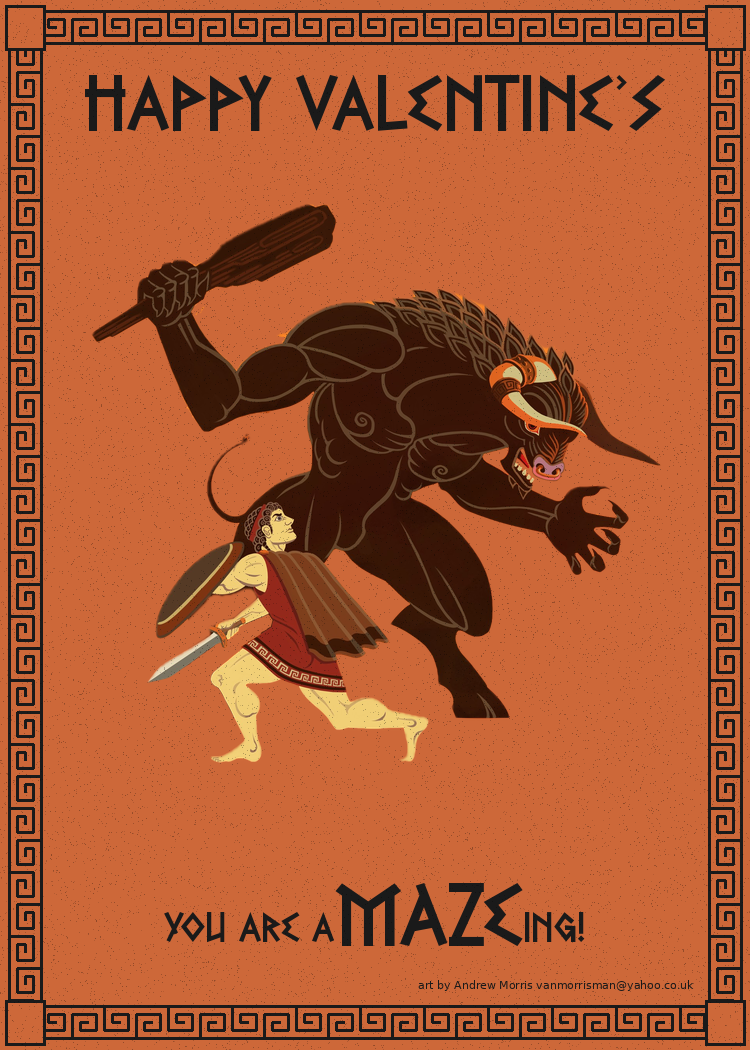
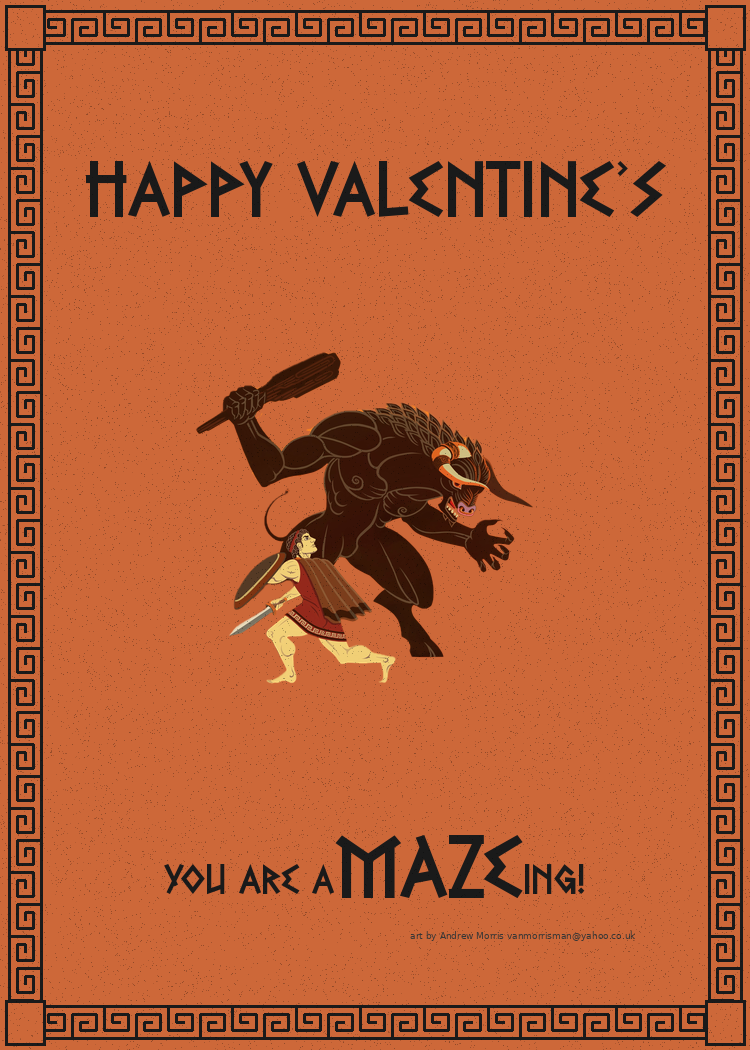
Tighten layout for high-impact heroic art
- Inner margins: 54px top/bottom, 48px left/right (was 66/60)
- Header padding: 78px (was 90), font reduced to 72pt (was 80)
- Header-to-illustration gap: 72px (was 84)
- Illustration-to-pun gap: 72px (was 90)
- Pun bottom padding: 84px (was 90)
- Credit: 10px font at 80% opacity, 48px offset

Changed region(s): [[0.092, 0.061, 0.8893, 0.7314], [0.2147, 0.7924, 0.92, 0.9448]]

diff --git a/src/greek_design_system.py b/src/greek_design_system.py
@@ -343,29 +343,31 @@ def generate_greek_card_front(
 ) -> Image:
     """Generate card front with Greek pottery styling.
 
-    Layout spec (from design critique):
-    - Border: 10px stroke, inner margins 66px top/bottom, 60px left/right
-    - Header: 90px top padding, 84px gap to illustration
-    - Illustration: centered at x=375, 96px below header, 90px above pun
-    - Pun line: 90px gaps above and below
-    - Credit: 6.5pt at 82% opacity, 54px from bottom-right inner border
+    Layout spec (tightened for high-impact):
+    - Inner margins: 54px top/bottom, 48-54px left/right
+    - Header top padding: 78px from inner border
+    - Header to illustration gap: 72px
+    - Illustration: ~640px height target (58-65% of card), centered
+    - Illustration to pun gap: 72px
+    - Pun baseline to bottom inner border: 84px
+    - Credit: 6-7pt at 80-85% opacity, 48-54px from inner border
     """
     img = Image.new('RGB', (width, height), PALETTE.terracotta)
     draw = ImageDraw.Draw(img)
 
-    # Layout constants from spec
-    INNER_MARGIN_TOP = 66
-    INNER_MARGIN_BOTTOM = 66
-    INNER_MARGIN_LEFT = 60
-    INNER_MARGIN_RIGHT = 60
-    HEADER_TOP_PADDING = 90
-    HEADER_TO_ILLUSTRATION_GAP = 84
-    ILLUSTRATION_TO_PUN_GAP = 90
-    PUN_BOTTOM_PADDING = 90
+    # Layout constants - tightened for dramatic impact
+    INNER_MARGIN_TOP = 54
+    INNER_MARGIN_BOTTOM = 54
+    INNER_MARGIN_LEFT = 48
+    INNER_MARGIN_RIGHT = 48
+    HEADER_TOP_PADDING = 78
+    HEADER_TO_ILLUSTRATION_GAP = 72
+    ILLUSTRATION_TO_PUN_GAP = 72
+    PUN_BOTTOM_PADDING = 84
     CENTER_X = width // 2  # 375
-    OPTICAL_NUDGE_X = -12
-    CREDIT_OFFSET_RIGHT = 54
-    CREDIT_OFFSET_BOTTOM = 54
+    OPTICAL_NUDGE_X = -12  # Nudge left if art mass leans right
+    CREDIT_OFFSET_RIGHT = 48
+    CREDIT_OFFSET_BOTTOM = 48
 
     draw_card_borders(draw, width, height, border_width)
 
@@ -373,9 +375,9 @@ def generate_greek_card_front(
     base_dir = os.path.dirname(os.path.abspath(__file__))
     greek_font_path = os.path.join(base_dir, "..", "assets", "fonts", "Greek-Freak.ttf")
 
-    # Calculate header position
+    # Calculate header position (reduced 10% from 80pt for balance with larger art)
     try:
-        header_font = ImageFont.truetype(greek_font_path, 80)
+        header_font = ImageFont.truetype(greek_font_path, 72)
     except:
         header_font = ImageFont.load_default()
 
@@ -451,9 +453,9 @@ def generate_greek_card_front(
     draw.text((pun_start_x + w1, pun_y), part2, fill=PALETTE.black, font=big_font)
     draw.text((pun_start_x + w1 + w2, pun_y + baseline_offset), part3, fill=PALETTE.black, font=small_font)
 
-    # Artist credit (6.5pt ≈ 8-9px at 300dpi, with 82% opacity)
+    # Artist credit (6-7pt ≈ 8-10px at 300dpi, with 80-85% opacity)
     try:
-        credit_font = ImageFont.truetype("/usr/share/fonts/truetype/dejavu/DejaVuSans.ttf", 9)
+        credit_font = ImageFont.truetype("/usr/share/fonts/truetype/dejavu/DejaVuSans.ttf", 10)
     except:
         credit_font = ImageFont.load_default()
 
@@ -463,8 +465,8 @@ def generate_greek_card_front(
     credit_x = width - INNER_MARGIN_RIGHT - CREDIT_OFFSET_RIGHT - credit_width
     credit_y = height - INNER_MARGIN_BOTTOM - CREDIT_OFFSET_BOTTOM
 
-    # Draw credit with 82% opacity (simulate by using slightly lighter color)
-    credit_color = "#363636"  # ~82% opacity black on terracotta
+    # Draw credit with ~80% opacity (slightly lighter to not compete with art)
+    credit_color = "#3D3D3D"  # ~80% opacity black on terracotta
     draw.text((credit_x, credit_y), credit_text, fill=credit_color, font=credit_font)
 
     if add_texture:
